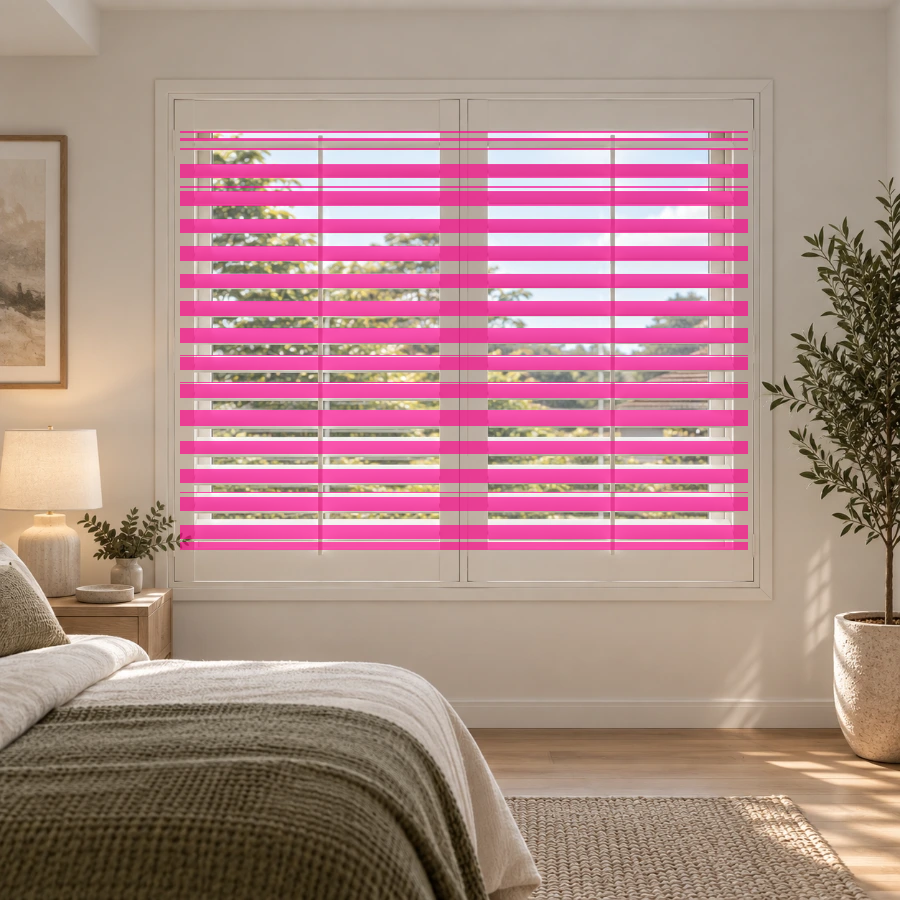
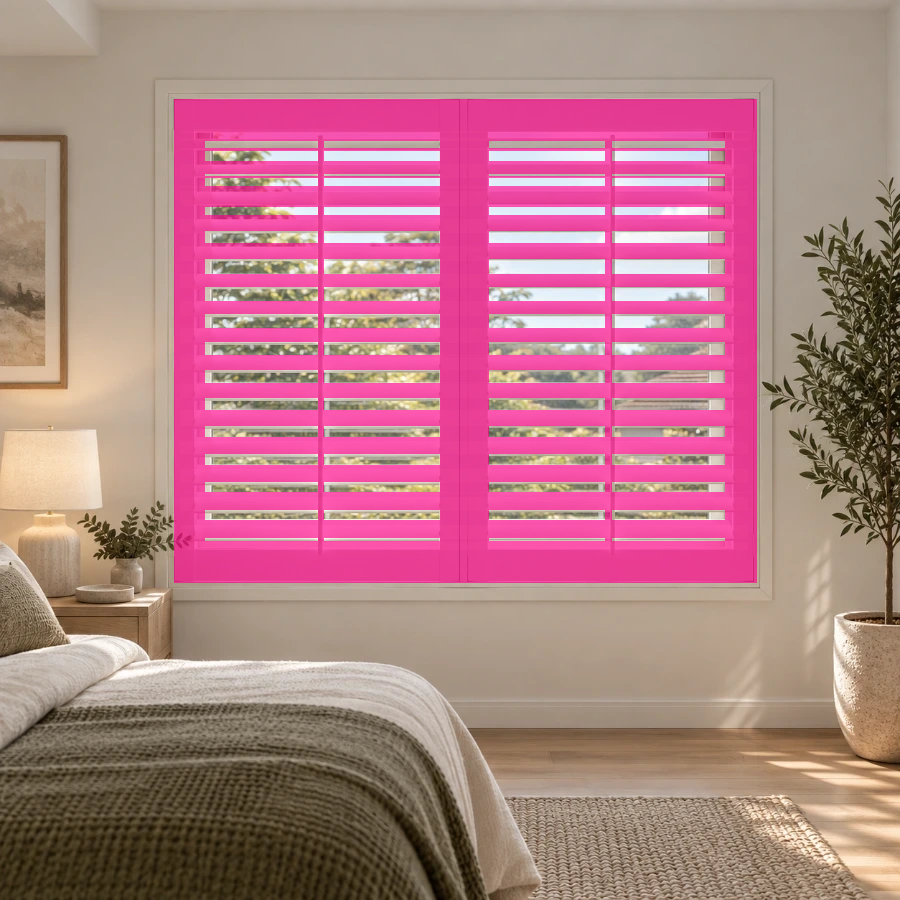
Dye the whole shutter, not its louvres
A COLOUR ROW THAT PAINTS PART OF THE PRODUCT IS WORSE THAN NONE. Choosing
Charcoal on a plantation shutter gave charcoal blades hanging in a cream frame,
and on a venetian, charcoal slats under a cream headrail — a shutter nobody
makes and a blind nobody sells. Both are one colour throughout: the frame, the
stiles, the top and bottom rails and the tilt rod are as much the shutter as its
louvres are, and a venetian's headrail and bottom bar are colour-matched to its
slats.

THE CUTTER COULD NOT REACH THEM BECAUSE IT LOOKED FOR SLATS BY COLOUR, and the
frame is not a colour that can be found. Measured on this photograph, the frame
in shade runs 158-189 at 0.14-0.20 saturation and the plaster wall behind it runs
152-205 at 0.15-0.24. They overlap almost exactly — a white frame in shadow and a
warm wall in daylight ARE the same colour, which is the thing the curtain branch
already spent two passes learning.

SO THE OPENINGS ARE GIVEN, LIKE THE BOX. `--glass` is each opening the blind
covers; `--front` is anything standing between the camera and it. The box runs
frame to frame, and everything in it that is not glass is product — structure by
construction rather than by threshold.

AND THE SLAT TEST ITSELF WAS THROWING AWAY HALF OF EVERY SLAT. It required
luminance under 236, which was there to keep blown sky out of the gaps and did —
but a lit slat face is blown too. Row by row across the venetian's glass, a slat
[…]

Changed region(s): [[0.1867, 0.0933, 0.84, 0.6533]]

diff --git a/docs/fabric-photos.md b/docs/fabric-photos.md
@@ -24,6 +24,38 @@ that is bone-against-bone and invisible on White is a bright fringe on Black.
 Masks are per product, not per fabric — the fabrics of one product are the same
 window in the same room, so the blind occupies the same pixels in all of them.
 
+## The louvred two, and the numbers they were cut with
+
+A venetian and a plantation shutter go through `--slats`, which takes three
+kinds of rectangle in fractions of the frame: `--box` is the whole unit, frame
+to frame; `--glass` is each opening the blind covers, and only there does the
+slat-versus-daylight test get asked; `--front` is anything standing between the
+camera and the blind. Everything in the box that is not glass is product — which
+is how the frame, the stiles, the rails and the tilt rods take colour, none of
+which can be found by looking at their pixels.
+
+**These numbers are read off the photograph by eye and cannot be recovered from
+it**, so they live here. Re-cutting either mask without them silently produces
+the old louvres-only cut.
+
+```
+node tools/cut-fabric-mask.mjs public/images/fabrics/plantation-shutters.webp plantation-shutters --slats \
+  --box=0.11,0.6467,0.1933,0.84 \
+  --glass=0.1456,0.6067,0.2278,0.3522 --glass=0.1456,0.6067,0.36,0.4878 \
+  --glass=0.1456,0.6067,0.5433,0.6711 --glass=0.1456,0.6067,0.68,0.8044
+
+node tools/cut-fabric-mask.mjs public/images/fabrics/venetian-blinds.webp venetian-blinds --slats \
+  --box=0.0911,0.6978,0.1689,0.8289 \
+  --glass=0.1189,0.6622,0.1711,0.8267 \
+  --front=0.6111,0.6444,0.8067,0.8311 --front=0.6444,0.7111,0.7833,0.8311
+```
+
+Four openings for a two-panel shutter rather than two, because the tilt rod
+stands in front of the view and splits its panel: given the panel whole, the rod
+would be daylight and lose its colour. The venetian's two `--front` rectangles
+are the lamp shade crossing the bottom corner, stepped to follow the dome —
+without them the bottom bar paints a charcoal band across the lamp.
+
 ## What the photographs have to do
 
 - **Off-white cloth, never pure white and never blown out.** Colour is applied by
